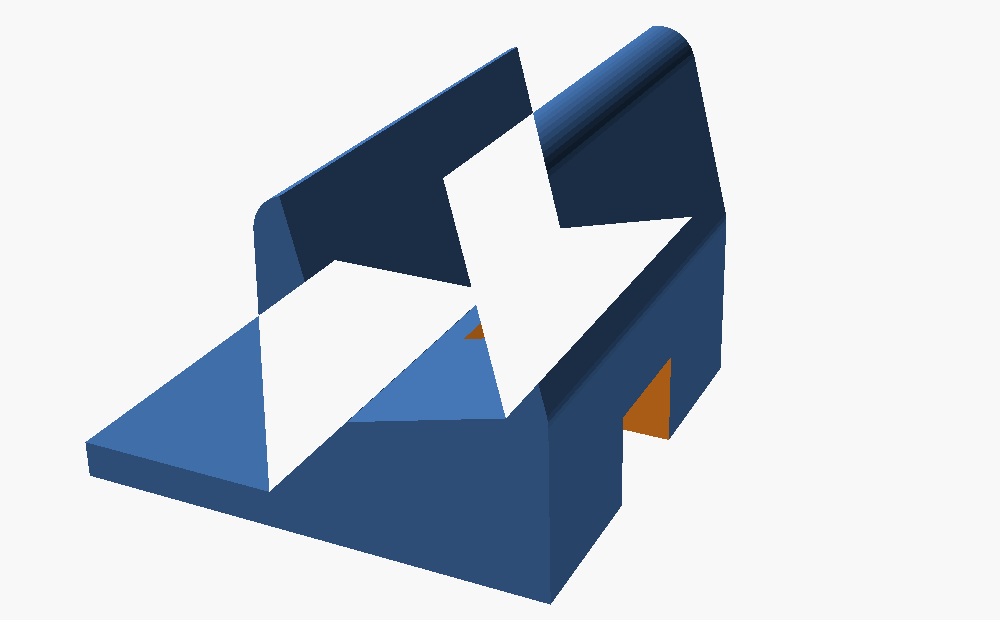
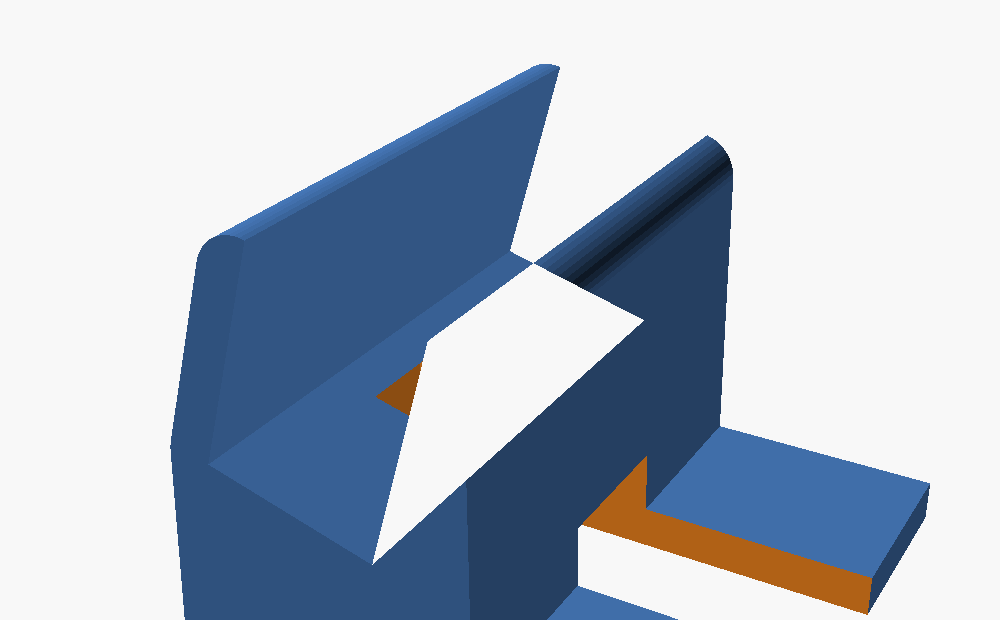
Socle : le cable ressort derriere l'ecran
La sortie du canal partait vers l'avant, donc le cordon passait devant
la dalle. Elle part maintenant vers l'arriere par defaut, et « Sortie »
permet de la retourner. Le profil dessine la sortie du bon cote.

Simple yes dans les deux sens.

diff --git a/builder.html b/builder.html
@@ -320,6 +320,9 @@
               <div id="standCableRows" style="display:none">
                 <div class="rowline"><label>Haut. sortie</label><input type="number" id="standCableH" min="2" max="30" step="0.5"><span class="unit">mm</span></div>
                 <div class="rowline" title="Largeur du puits sous la rainure, dans le sens de la profondeur du socle"><label>Larg. puits</label><input type="number" id="standCableD" min="4" max="40" step="1"><span class="unit">mm</span></div>
+                <div class="rowline" title="Par où le câble ressort. Derrière l'écran par défaut : il ne passe pas devant la dalle."><label>Sortie</label>
+                  <select id="standCableSide" style="flex:1"><option value="back">vers l’arrière</option><option value="front">vers l’avant</option></select>
+                </div>
               </div>
               <div class="rowline" title="Languette plate à l'arrière du socle. Penchée, la boîte a son centre de gravité en arrière : sans elle, l'ensemble bascule."><label>Queue arrière</label><input type="number" id="standTail" min="0" max="120" step="1"><span class="unit">mm</span></div>
               <div class="rowline" title="Fenêtre au centre de la joue : une bande LED ou un connecteur sur la tranche de la boîte n'est plus aveuglé. 0 = aucune."><label>Encoche</label><input type="number" id="standNotchW" min="0" max="200" step="1"><span class="unit">mm</span></div>
@@ -556,6 +559,9 @@ const EN = {
   'Queue arrière': 'Rear tail', 'au moins.': 'at least.',
   'Passage câble': 'Cable pass', 'Haut. sortie': 'Exit height', 'Larg. puits': 'Shaft width',
   'Dessous': 'Underside', 'dessous': 'clear underneath',
+  'Sortie': 'Exit', 'vers l’arrière': 'to the back', 'vers l’avant': 'to the front',
+  'Par où le câble ressort. Derrière l\'écran par défaut : il ne passe pas devant la dalle.':
+    'Which way the cable comes out. Behind the screen by default, so it does not run across the front.',
   'Nombre': 'How many', 'deux socles': 'two sockets', 'un seul, large': 'one wide socket',
   'Un socle de': 'One socket of',
   'Un socle unique couvre toute la tranche : prévois un passage de câble si un connecteur s\'y trouve.':
@@ -1046,7 +1052,7 @@ const DEFAULT_STATE = () => ({
   holeComp: 0.3, teardrop: true, lidT: 3, floorT: 2, lipH: 7, cornerR: 9,
   stand: false, standN: 2, standAngle: 15, standW: 45, standDepth: 18, standWall: 4,
   standNotchW: 0, standNotchH: 0, standNotchSide: 'front', standTail: 0,
-  standCableW: 0, standCableH: 6, standCableD: 10, standUnder: 0,
+  standCableW: 0, standCableH: 6, standCableD: 10, standUnder: 0, standCableSide: 'back',
   mountTabs: 'none', mountN: 2, panel: 'cut',
   face: 'front', cuts: [], pcbs: [], cells: [], divs: [], comps: [], clips: [], nextId: 1, sel: null,
 });
@@ -2268,10 +2274,13 @@ function standProfileSvg() {
   g += `<polygon points="${poly2(rainure)}" fill="#10141b" stroke="#f0b350" stroke-width=".8"/>`;
   if (state.standCableW > 0) {
     const ch2 = state.standCableH, cd2 = state.standCableD;
-    const x0c = Math.min(...bloc.map(q => q[0]));
+    const vers = state.standCableSide === 'front'
+      ? Math.min(...bloc.map(q => q[0]))
+      : Math.max(...bloc.concat(queue || []).map(q => q[0]));
     g += `<polygon points="${poly2([[-cd2/2, 0], [cd2/2, 0], [cd2/2, by], [-cd2/2, by]])}" ` +
          `fill="rgba(16,20,27,.85)" stroke="#f0b350" stroke-width=".8" stroke-dasharray="3 2"/>`;
-    g += `<polygon points="${poly2([[x0c, 0], [cd2/2, 0], [cd2/2, ch2], [x0c, ch2]])}" ` +
+    const s0 = state.standCableSide === 'front' ? cd2 / 2 : -cd2 / 2;
+    g += `<polygon points="${poly2([[vers, 0], [s0, 0], [s0, ch2], [vers, ch2]])}" ` +
          `fill="rgba(16,20,27,.85)" stroke="#f0b350" stroke-width=".8" stroke-dasharray="3 2"/>`;
   }
   if (state.standNotchW > 0) {
@@ -2759,7 +2768,8 @@ function buildArgList(part) {
     if (state.standCableW > 0)
       args.push(`stand_cable_w=${state.standCableW}`,
                 `stand_cable_h=${state.standCableH}`,
-                `stand_cable_d=${state.standCableD}`);
+                `stand_cable_d=${state.standCableD}`,
+                `stand_cable_side="${state.standCableSide}"`);
     if (state.standNotchW > 0)
       args.push(`stand_notch_w=${state.standNotchW}`,
                 `stand_notch_h=${state.standNotchH}`,
@@ -3394,6 +3404,9 @@ function buildStatic() {
   $('optStand').addEventListener('change', () => {
     pushHistory(); state.stand = $('optStand').checked; updateAll();
   });
+  $('standCableSide').addEventListener('change', () => {
+    pushHistory(); state.standCableSide = $('standCableSide').value; updateAll();
+  });
   $('standN').addEventListener('change', () => {
     pushHistory(); state.standN = +$('standN').value; updateAll();
   });
@@ -3586,6 +3599,7 @@ function updateAll(withInspector = true) {
     if (document.activeElement !== $(cle)) $(cle).value = state[cle];
   $('standNotchSide').value = state.standNotchSide;
   $('standN').value = state.standN;
+  $('standCableSide').value = state.standCableSide;
   $('standNotchRows').style.display = state.standNotchW > 0 ? '' : 'none';
   $('standCableRows').style.display = state.standCableW > 0 ? '' : 'none';
   if (state.stand) {

diff --git a/docs/Elements-Reference.md b/docs/Elements-Reference.md
@@ -401,8 +401,9 @@ straight to the plug you use.
 
 **Cable pass.** A connector on the seated edge — the CYD's USB-C sits
 right there — would be buried in the groove. *Cable pass* cuts a
-channel that drops under the groove and comes out at the front, level
-with the desk, so the lead reaches it from below. Often you do not
+channel that drops under the groove and comes out level with the desk
+— **behind the screen by default**, so the lead never runs across the
+front. *Exit* flips it forward if you prefer. Often you do not
 need it: two narrow sockets placed at the two ends of the edge
 already leave the middle clear.
 
